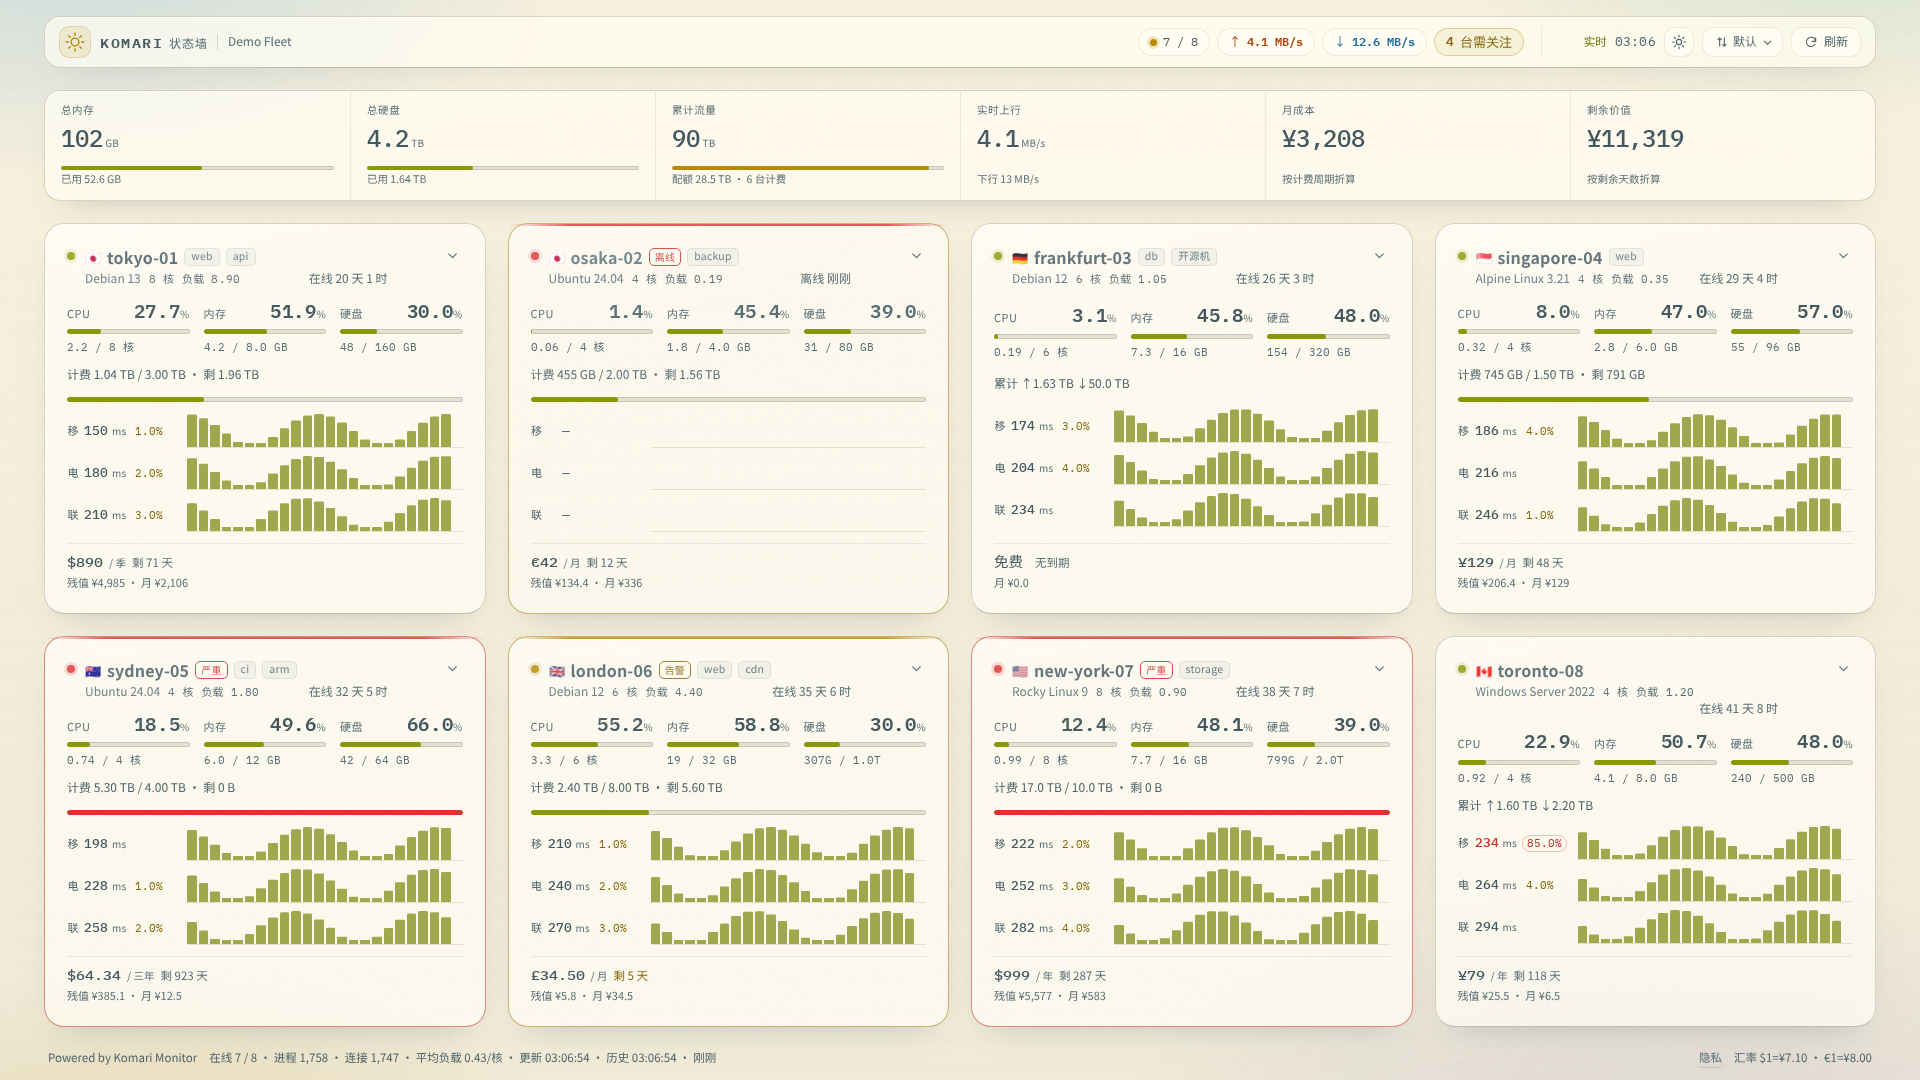
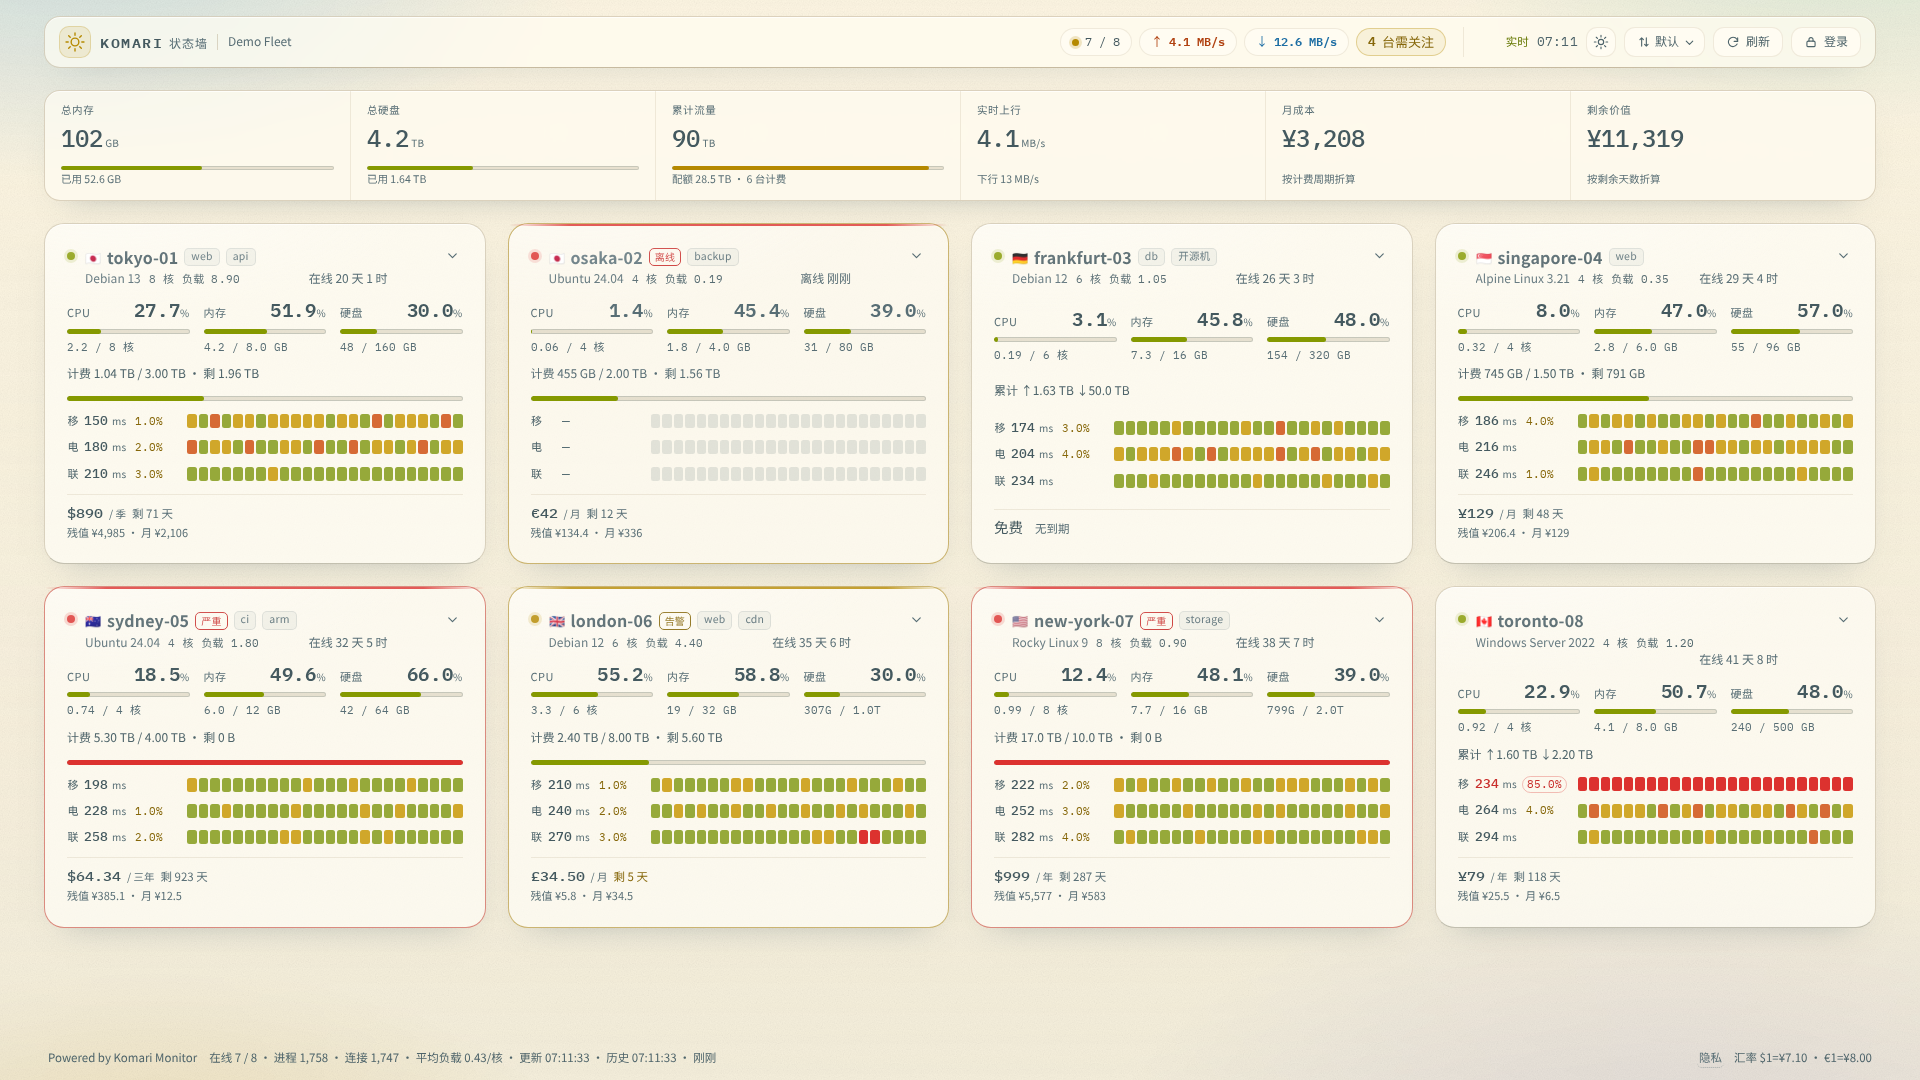
StatusWall 2.6.0: uptime-style ping segments, natural card height
Equal-height status segments coloured by lost probes and latency over the line median; ping window ends at the newest record; fix the loss badge being counted as the first segment. Demo fixtures gain occasional loss and spikes; screenshots regenerated.

diff --git a/theme/src/app.js b/theme/src/app.js
@@ -22,10 +22,20 @@ const SETTING_KEYS = Object.keys(DEFAULTS);
 
 const POLL_PING_MS = 12000;
 
-const LB = 24; // 三网信号条桶数
-/* 条带专用色阶：常态是低彩度的墨绿，只有真的抖动才升到黄/橙/红 */
-const LATENCY_RAMP = ['var(--bar-1)', 'var(--bar-2)', 'var(--bar-3)', 'var(--bar-4)'];
-const LOSS_RAMP = ['var(--ink-4)', 'var(--ok)', 'var(--warn)', 'var(--up)', 'var(--crit)'];
+const LB = 24; // 三网状态条格数
+const SEG = { ok: 'var(--seg-ok)', slow: 'var(--seg-slow)', bad: 'var(--seg-bad)', loss: 'var(--seg-loss)' };
+
+/* 一格的状态。一格只有几次探测（2 小时 / 24 格 ≈ 5 分钟），丢 1 次就是 20%，
+   所以按「丢了几次」分级；不丢包时看延迟比这条线路平时（中位数）高出多少。
+   国内线路常年有零星丢包，这样平时是一片绿，真正断流才会成片发红。 */
+function segmentLevel(bk, med) {
+  if (bk.ms == null || bk.loss >= 60) return 'loss';
+  const over = med > 0 ? (bk.ms - med) / med : 0;
+  if (bk.loss >= 40 || over >= 0.6) return 'bad';
+  if (bk.loss >= 20 || over >= 0.25) return 'slow';
+  return 'ok';
+}
+const SEG_TEXT = { ok: '正常', slow: '偏慢', bad: '很慢或丢包', loss: '丢包严重' };
 const NB = 30; // 波形桶数（历史窗口）
 const CHART_W = 600;
 const CHART_H = 96;
@@ -818,20 +828,25 @@ function percentile(values, p) {
   return arr[idx];
 }
 
-function levelIndex(value, thresholds) {
-  for (let i = 0; i < thresholds.length; i += 1) {
-    if (value <= thresholds[i]) return i;
-  }
-  return thresholds.length;
+/* 三网窗口以最新一条探测记录为终点：当前这几分钟的记录往往还没写进库，
+   用「现在」当终点会让每条状态条最右边永远空着一格 */
+function pingRange() {
+  const hours = state.settings.historyHours;
+  const end = state.pingEnd || Date.now();
+  const span = hours * 3600_000;
+  return { start: end - span, end, span };
 }
 
 function bucketStartFor(index) {
-  const { start, span } = bucketRange();
+  const { start, span } = pingRange();
   return start + span * (index + 0.5) / LB;
 }
 
 function buildPingBuckets() {
-  const { start, span } = bucketRange();
+  let latest = 0;
+  for (const map of state.ping.values()) for (const arr of map.values()) if (arr.length) latest = Math.max(latest, arr[arr.length - 1][0]);
+  state.pingEnd = latest && latest > Date.now() - 30 * 60_000 ? latest + 1 : 0;
+  const { start, span } = pingRange();
   state.pingBuckets.clear();
   for (const uuid of state.order) {
     const map = state.ping.get(uuid);
@@ -840,6 +855,7 @@ function buildPingBuckets() {
       for (const [taskId, arr] of map) {
         const acc = Array.from({ length: LB }, () => ({ sum: 0, ok: 0, lost: 0 }));
         for (const [t, value] of arr) {
+          if (t < start) continue;
           const i = clamp(Math.floor((t - start) / span * LB), 0, LB - 1);
           if (value < 0) acc[i].lost += 1;
           else if (value > 0) { acc[i].sum += value; acc[i].ok += 1; }
@@ -1544,13 +1560,12 @@ function renderLanes(view, withLanes) {
   for (const lane of $$('.lane', refs.root)) {
     const taskId = Number(lane.dataset.task);
     const buckets = pb ? pb.get(taskId) : null;
-    const bars = $$('i', lane);
+    const bars = $$('.lbars i', lane);
     if (!buckets || !buckets.some(Boolean)) {
       lane.dataset.empty = '1';
       for (const bar of bars) {
-        bar.style.setProperty('--h', '0');
-        bar.style.setProperty('--c', 'var(--ink-4)');
-        bar.style.setProperty('--loss', '0');
+        bar.style.removeProperty('--c');
+        delete bar.dataset.lv;
         delete bar.dataset.ms;
         delete bar.dataset.loss;
         delete bar.dataset.t;
@@ -1559,39 +1574,23 @@ function renderLanes(view, withLanes) {
     }
     lane.dataset.empty = '0';
     const valid = buckets.filter((x) => x && x.ms != null).map((x) => x.ms);
-    const lo = valid.length ? percentile(valid, 0.05) : 0;
-    const hi = Math.max(lo + 12, valid.length ? percentile(valid, 0.99) : lo + 12);
-    // 颜色按「相对这条线路自己的常态偏高多少」分级：多数格子安静，只有真的抖了才上色
     const med = valid.length ? percentile(valid, 0.5) : 0;
-    const iqr = valid.length ? Math.max(8, percentile(valid, 0.75) - percentile(valid, 0.25)) : 8;
     for (let i = 0; i < bars.length; i += 1) {
       const bk = buckets[i];
       const bar = bars[i];
       if (!bk || (bk.ms == null && bk.loss <= 0)) {
-        bar.style.setProperty('--h', '0');
-        bar.style.setProperty('--c', 'var(--ink-4)');
-        bar.style.setProperty('--loss', '0');
+        bar.style.removeProperty('--c');
         bar.dataset.none = '1';
         delete bar.dataset.ms;
         delete bar.dataset.loss;
         delete bar.dataset.t;
+        delete bar.dataset.lv;
         continue;
       }
       delete bar.dataset.none;
-      /* 0.78 次幂：把中间高度托起来，条带读得出形状，又不改变大小关系 */
-      const h = bk.ms == null ? 1 : clamp(Math.pow(clamp((bk.ms - lo) / (hi - lo), 0, 1), 0.78), 0.12, 1);
-      let color;
-      if (bk.ms == null) {
-        color = LOSS_RAMP[levelIndex(bk.loss, [0.5, 2, 5, 10])];
-      } else {
-        const dev = (bk.ms - med) / iqr;
-        /* 门槛放在 0.9 个四分位距：一半以上的格子保持安静，抖动才跳色 */
-        const lv = dev >= 3.2 ? 3 : dev >= 1.9 ? 2 : dev >= 0.9 ? 1 : 0;
-        color = LATENCY_RAMP[lv];
-      }
-      bar.style.setProperty('--h', String(h));
-      bar.style.setProperty('--c', color);
-      bar.style.setProperty('--loss', String(clamp(bk.loss / 10, 0, 1)));
+      const lv = segmentLevel(bk, med);
+      bar.style.setProperty('--c', SEG[lv]);
+      bar.dataset.lv = lv;
       bar.dataset.t = String(bucketStartFor(i));
       bar.dataset.ms = bk.ms == null ? '' : String(Math.round(bk.ms));
       bar.dataset.loss = num(bk.loss, 1);
@@ -2277,9 +2276,9 @@ function pingsTip() {
   const h = Number(state.settings.historyHours) || 2;
   const min = Math.max(1, Math.round(h * 60 / LB));
   return [
-    `!三网延迟 · 近 ${h} 小时 / ${LB} 根`,
-    `每根 ${min} 分钟，从左到右是时间`,
-    '高度=延迟 · 颜色=快慢 · 越淡=丢包越多',
+    `!三网延迟 · 近 ${h} 小时 / ${LB} 格`,
+    `每格 ${min} 分钟，从左到右是时间`,
+    '绿=正常 · 黄=偏慢 · 橙=很慢或丢包 · 红=丢包严重',
     '悬停看某一刻的三网对比',
   ].join('\n');
 }
@@ -2447,8 +2446,9 @@ function initCrosshair() {
       const b = laneBars && laneBars.children[idx];
       const ms = b && b.dataset ? b.dataset.ms : '';
       const loss = b && b.dataset ? b.dataset.loss : '';
-      if (!ms) return `${key}|—`;
-      return `${key}|${ms} ms · 丢 ${loss}%`;
+      const lv = b && b.dataset ? b.dataset.lv : '';
+      if (!lv) return `${key}|—`;
+      return `${key}|${ms ? `${ms} ms` : '全部超时'} · 丢 ${loss}% · ${SEG_TEXT[lv]}`;
     });
     const first = lanes[0] && lanes[0].querySelector('.lbars');
     const t0 = first && first.children[idx] ? first.children[idx].dataset.t : '';

diff --git a/theme/src/style.css b/theme/src/style.css
@@ -66,10 +66,11 @@
   --orange: #cb4b16;
 
   /* 三网条带专用：常态墨绿低彩度，抖动才按黄→橙→红升温 */
-  --bar-1: #8d9d33;
-  --bar-2: #b58900;
-  --bar-3: #cb4b16;
-  --bar-4: #dc322f;
+  --seg-ok: #96a93a;
+  --seg-slow: #d0a72a;
+  --seg-bad: #d66a35;
+  --seg-loss: #dc322f;
+  --seg-none: color-mix(in srgb, var(--ink-4) 16%, transparent);
 
   --up: #cb4b16;
   --down: #268bd2;
@@ -131,10 +132,11 @@ html[data-scheme="dark"] {
   --orange: #ec7539;
 
   /* 深色下条带压低一档亮度，别在深底上泛荧光 */
-  --bar-1: #8b9f28;
-  --bar-2: #d6a616;
-  --bar-3: #e0672b;
-  --bar-4: #f4685f;
+  --seg-ok: #6f8c1f;
+  --seg-slow: #c99a12;
+  --seg-bad: #e0672b;
+  --seg-loss: #f4685f;
+  --seg-none: color-mix(in srgb, var(--ink-4) 22%, transparent);
   --up: #ec7539;
   --down: #58b2ee;
   --cpu: #44cdc0;
@@ -541,7 +543,9 @@ a.btn[hidden] { display: none; }
 .grid {
   display: grid;
   grid-template-columns: repeat(4, minmax(0, 1fr));
-  grid-auto-rows: minmax(min-content, 1fr);
+  /* 卡片按内容自然高度排，同一行等高；机器少时不再被拉高、内部空出大段留白 */
+  grid-auto-rows: auto;
+  align-content: start;
   gap: var(--gap);
   flex: 1 1 auto;
   /* 首屏放得下时填满高度；放不下时整页滚动，卡片本身不被压扁 */
@@ -907,52 +911,29 @@ html::-webkit-scrollbar-thumb:hover {
   white-space: nowrap;
 }
 
-/* 24 根信号条：高度=延迟强度，颜色=延迟/丢包级别，透明度=丢包占比 */
+/* 24 格状态条：等高圆角小格，颜色只回答一个问题——这段时间这条线路好不好 */
 .lbars {
   position: relative;
   flex: 1 1 auto;
   display: flex;
-  align-items: flex-end;
-  justify-content: stretch;
+  align-items: stretch;
   gap: 2px;
-  height: 34px;
+  height: 14px;
   min-width: 40px;
-  padding-bottom: 1px;
-  border-radius: 3px;
-  /* 不铺底板：留白就是纸，只有一条基线当地面 */
-}
-/* 一条淡基线当作「地面」，24 根柱子从它上面长出来 */
-.lbars::after {
-  content: '';
-  position: absolute;
-  left: 0;
-  right: 0;
-  bottom: 0;
-  height: 1px;
-  background: color-mix(in srgb, var(--line) 72%, transparent);
-  pointer-events: none;
 }
 .lbars i {
   flex: 1 1 0;
-  min-width: 1px;
-  height: 100%;
-  transform: scaleY(var(--h, 0.08));
-  transform-origin: bottom;
-  border-radius: 1.5px 1.5px 0 0;
-  background: color-mix(in srgb, var(--c, var(--ink-4)) 86%, var(--bg));
-  /* 丢包 = 信号变弱：越丢越淡，颜色只表示延迟高低 */
-  opacity: calc(1 - var(--loss, 0) * 0.45);
-  transition: transform 300ms cubic-bezier(0.22, 0.61, 0.36, 1), opacity 200ms ease;
+  min-width: 2px;
+  border-radius: 2.5px;
+  background: var(--c, var(--seg-none));
+  transition: background-color 300ms ease, opacity 200ms ease;
 }
-
-/* 深色底上把条带压回去一档，别泛荧光 */
-html[data-scheme="dark"] .lbars i { background: color-mix(in srgb, var(--c, var(--ink-4)) 78%, var(--bg)); }
 
 /* 延迟数字默认就是墨色；只有丢包真的严重时才染红，别让 1% 的小抖动抢戏 */
 .lane[data-level="crit"] .lms { color: var(--crit-ink); }
 .lane[data-level="off"] .lms { color: var(--ink-4); }
 .lane[data-level="off"] .lu { display: none; }
-.lane[data-empty="1"] .lbars i { background: var(--ink-4); opacity: 0.22; }
+.lane[data-empty="1"] .lbars i { background: var(--seg-none); }
 
 /* 财务：一条发丝线把它和上面的信号区隔开，卡片读起来是三段 */
 
@@ -1129,13 +1110,13 @@ a.ficp:hover { color: var(--ink-2); border-bottom-color: var(--ink-3); }
 .deck[data-state="ready"] .totals { animation: rise-in 420ms cubic-bezier(0.22, 0.61, 0.36, 1) 60ms both; }
 .deck[data-state="ready"] .wall { animation: rise-in 460ms cubic-bezier(0.22, 0.61, 0.36, 1) 40ms both; }
 
-/* 数据到位的那个瞬间：三网条带从基线往上长，三条线依次 70ms */
-.grid[data-grow] .lbars { animation: lbars-grow 620ms cubic-bezier(0.22, 0.61, 0.36, 1) both; }
+/* 数据到位的那个瞬间：三条状态条从左往右刷出来，三条线依次 70ms */
+.grid[data-grow] .lbars { animation: lbars-grow 560ms cubic-bezier(0.22, 0.61, 0.36, 1) both; }
 .grid[data-grow] .lane:nth-child(2) .lbars { animation-delay: 70ms; }
 .grid[data-grow] .lane:nth-child(3) .lbars { animation-delay: 140ms; }
 @keyframes lbars-grow {
-  from { transform: scaleY(0.02); opacity: 0.3; }
-  to { transform: none; opacity: 1; }
+  from { clip-path: inset(0 100% 0 0); }
+  to { clip-path: inset(0 0 0 0); }
 }
 
 
@@ -1182,7 +1163,7 @@ a.ficp:hover { color: var(--ink-2); border-bottom-color: var(--ink-3); }
   .vitals { gap: 9px; }
   .vv { font-size: 15px; }
   .pings { gap: 5px; }
-  .lbars { height: 22px; }
+  .lbars { height: 12px; }
   .fin { padding-top: 6px; }
 }
 
@@ -1191,7 +1172,7 @@ a.ficp:hover { color: var(--ink-2); border-bottom-color: var(--ink-3); }
   .deck { --card-pad: 15px; }
   .card { gap: 8px; }
   .pings { gap: 5px; }
-  .lbars { height: 24px; }
+  .lbars { height: 13px; }
   .fin { padding-top: 6px; }
 }
 
@@ -1277,10 +1258,9 @@ a.ficp:hover { color: var(--ink-2); border-bottom-color: var(--ink-3); }
   .nm { font-size: 14px; }
   .vitals { gap: 8px; }
   .vv { font-size: 15px; }
-  /* 手机上把三网条压薄一点，第二张卡能早一点露头 */
-  .pings { gap: 5px; }
+  .pings { gap: 6px; }
   .lane { gap: 8px; }
-  .lbars { height: 26px; }
+  .lbars { height: 13px; }
   .vital .track { margin-top: 5px; }
   .vd { margin-top: 4px; }
   /* 详情里的趋势图在窄屏必须整行，两列会把「现/峰」挤到换行 */
@@ -1448,7 +1428,6 @@ html[data-scheme="dark"] .tip { background: #063542; border-color: rgba(147, 161
   .card:hover { transform: translateY(-1px); box-shadow: 0 20px 38px -28px rgba(88, 110, 117, 0.7); }
   .card[data-expanded="true"]:hover { transform: none; }
   .card:hover .more { color: var(--ink); border-color: color-mix(in srgb, var(--blue) 34%, var(--card-line)); }
-  .card:hover .lbars i { filter: saturate(1.08); }
 }
 
 /* 没有 hover 的设备（大平板、横屏手机）：置顶星必须可见，否则是个看不见的按钮 */
@@ -1635,4 +1614,4 @@ html[data-scheme="dark"] .toast { background: #063542; }
 .lloss[data-lv="warn"] { color: var(--warn-ink); }
 
 
-.lbars i[data-none="1"] { opacity: 0.3; }
+.lbars i[data-none="1"] { background: var(--seg-none); }

diff --git a/CHANGELOG.md b/CHANGELOG.md
@@ -2,6 +2,27 @@
 
 All notable changes to StatusWall. Versions follow the theme manifest (`theme/komari-theme.json`).
 
+## 2.6.0 — 2026-11-03
+
+### Changed
+
+- The three-network strip is now a row of 24 equal-height rounded segments, the uptime-bar style used
+  by the most popular Komari themes, instead of bars whose height was stretched to each line's own
+  min–max (which made quiet lines look jumpy). Colour answers one question per segment: green normal,
+  yellow slow or one probe lost, orange very slow or two lost, red three or more lost or all timed out.
+  Thresholds count lost probes per five-minute segment, so routes with chronic light loss stay mostly
+  green and a real outage shows as a red run. The strip is shorter, so cards are shorter too.
+- Cards take their natural height (rows stay equal) instead of stretching to fill the screen, so a
+  wall with few nodes no longer opens large gaps inside each card.
+- The ping window ends at the newest probe record instead of "now", so the last segment is no longer
+  empty while the current minutes are still being written.
+- Calmer segment greens in the dark scheme.
+
+### Fixed
+
+- The strip picked up the loss badge as its first segment, shifting every segment one slot to the left:
+  the last segment was always grey and hover times were off by one segment.
+
 ## 2.5.2 — 2026-11-03
 
 ### Fixed
